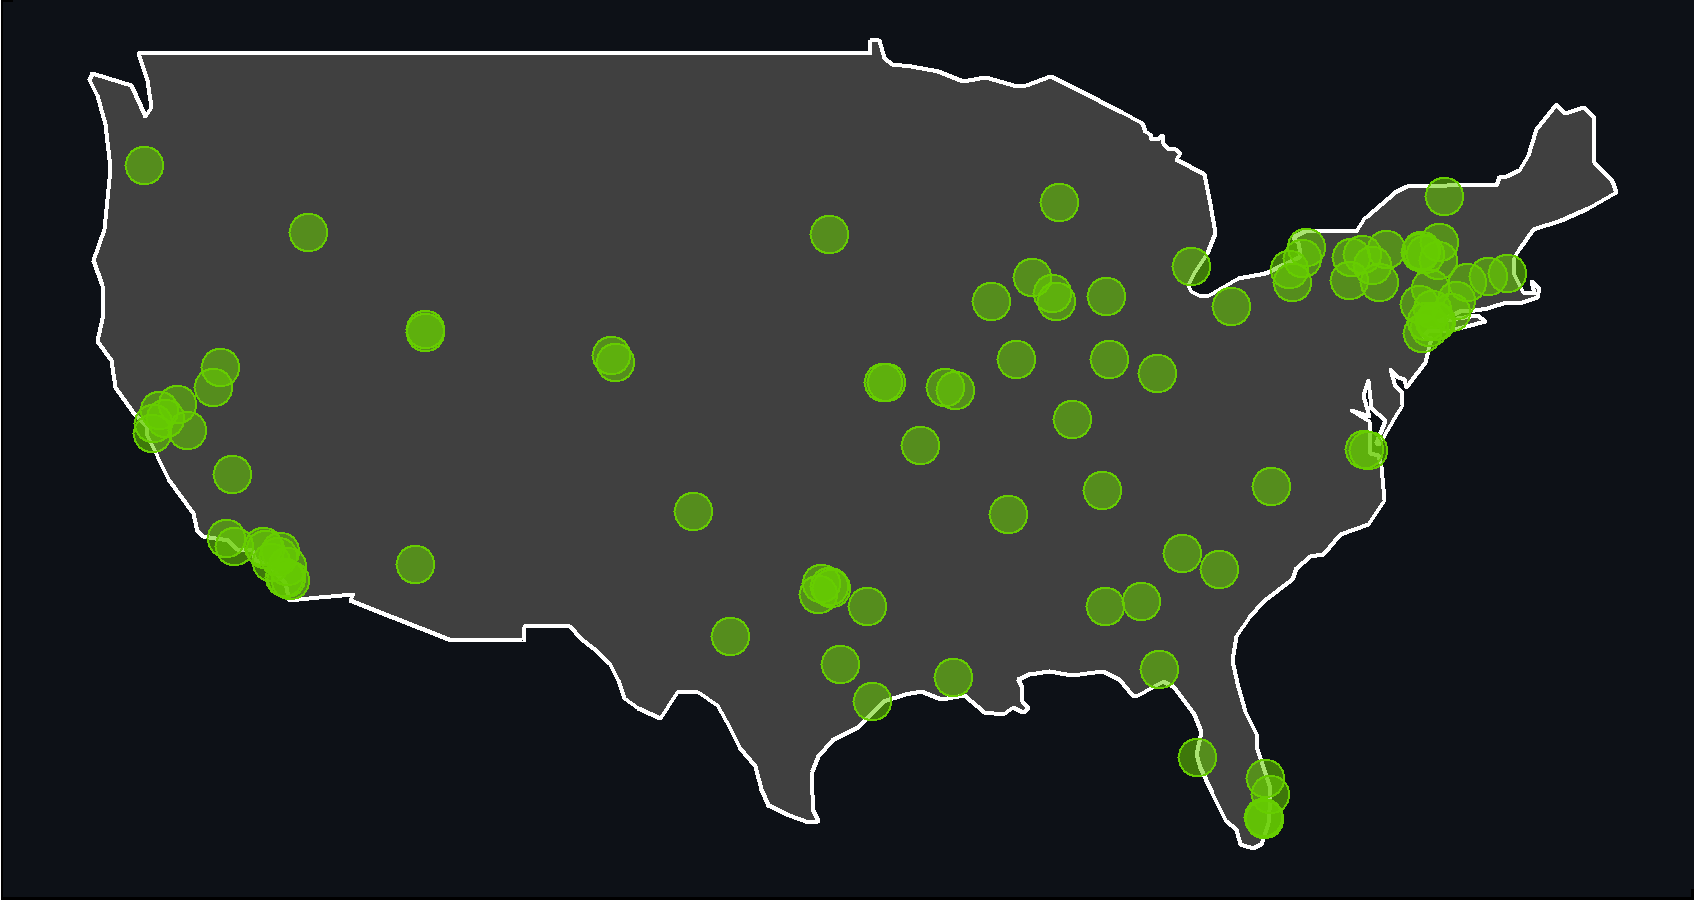
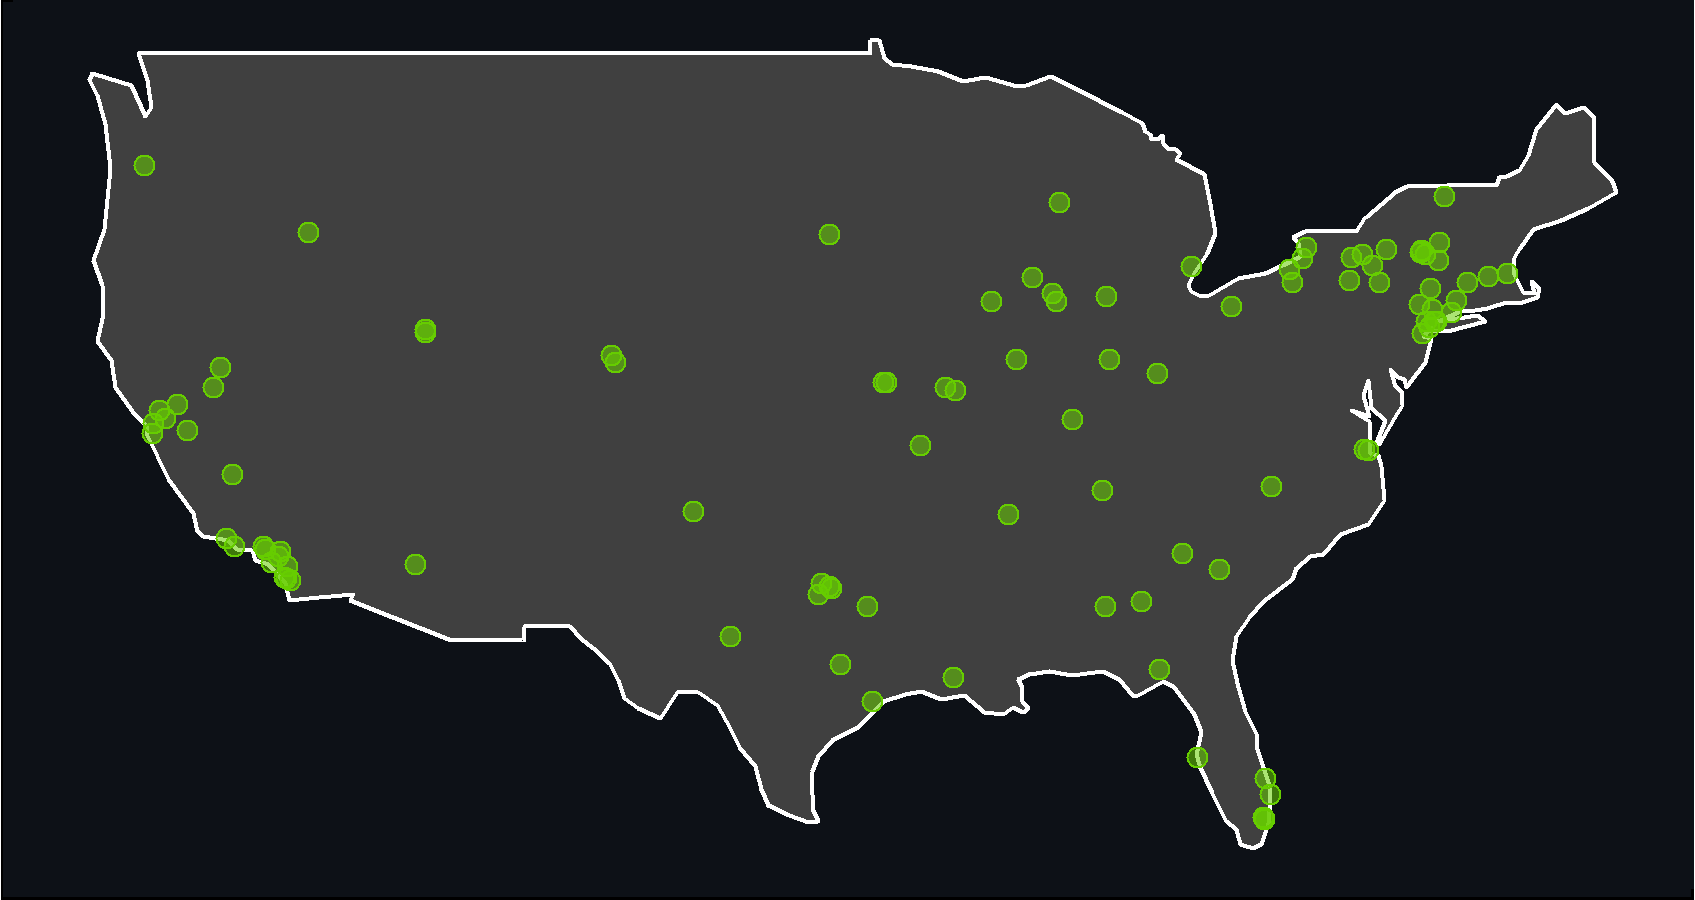
size

diff --git a/README.md b/README.md
@@ -82,7 +82,7 @@ usa <- usa %>%
                     ymax = 50),
                   crs = st_crs(usa)))
 
-cit_sf <- cities %>% 
+city_sf <- cities %>% 
   st_as_sf(.,
            coords = c("longitude", "latitude"),
            crs = 4326)
@@ -91,13 +91,13 @@ ggplot() +
   geom_sf(data = usa,
           fill = "grey25",
           color = "white") +
-  geom_sf(data = cit_sf,
-          size = 4,
+  geom_sf(data = city_sf,
+          size = 2,
           shape = 21,
           fill = "chartreuse3", color = "NA",
           alpha = .55) +
-  geom_sf(data = cit_sf,
-          size = 4,
+  geom_sf(data = city_sf,
+          size = 2,
           shape = 21,
           fill = "NA", color = "chartreuse3",
           alpha = 1.0) +
